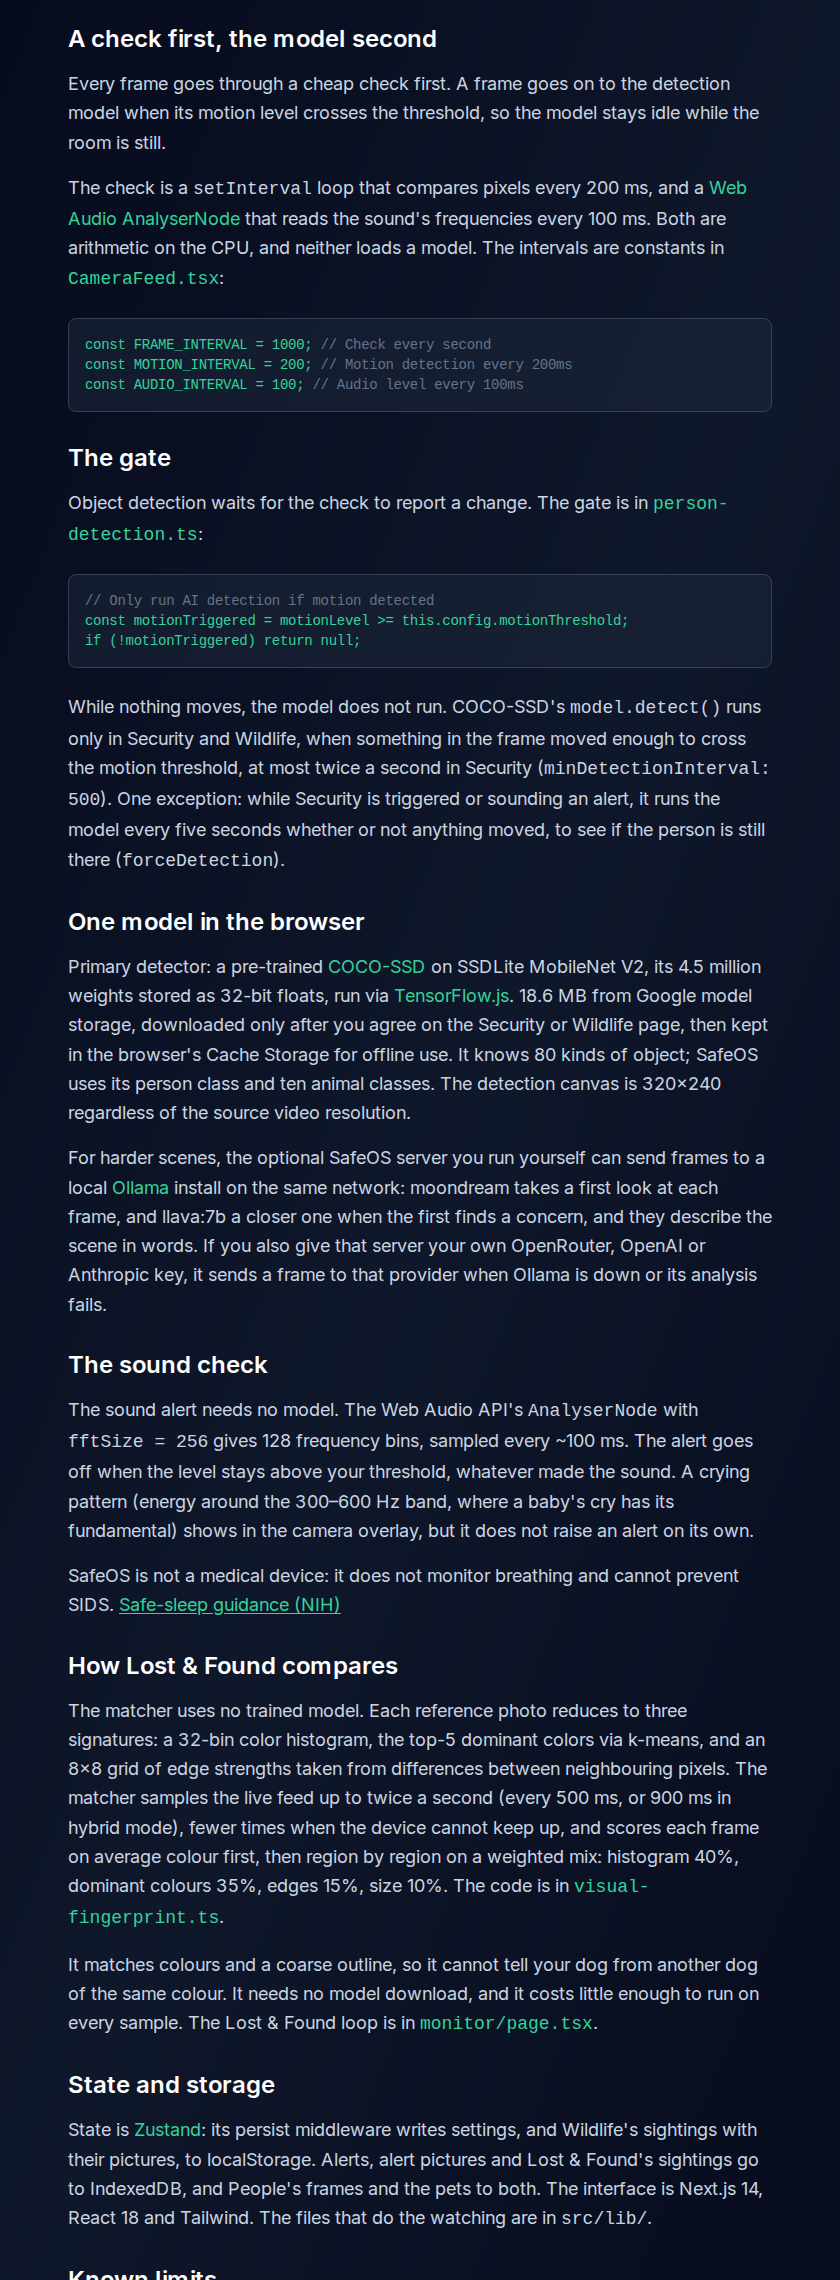
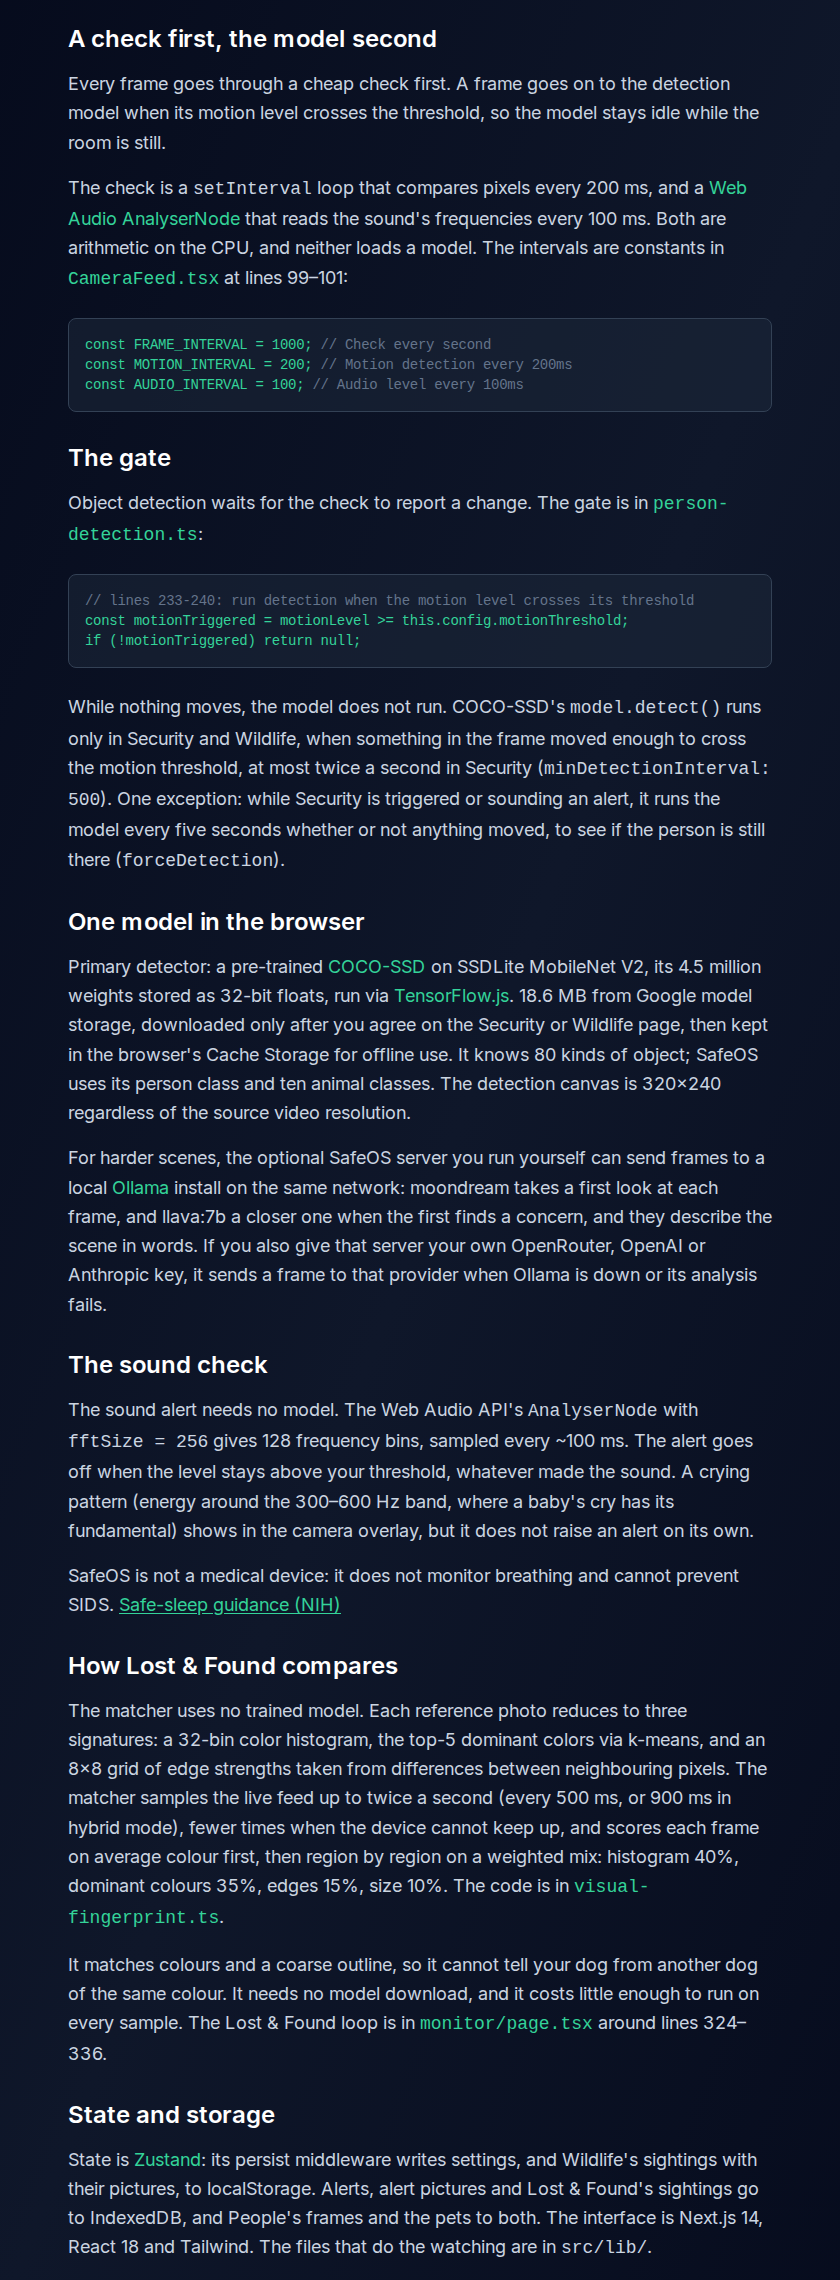
docs: refresh the before and after pictures from the Pictures run on 0d2431e
The connections table's spoken alert row and the blog's code lines change;
the other pictures are the same pixels in the new captures.

Changed region(s): [[0.0619, 0.9031, 0.8976, 1.0], [0.3405, 0.0934, 0.3714, 0.1246]]

diff --git a/docs/pictures/pr-69/README.md b/docs/pictures/pr-69/README.md
@@ -1,7 +1,7 @@
 # Privacy, storage and model words, and the connections table
 
-Paired captures from CI. [Pictures run](https://github.com/framerslab/safeos/actions/runs/45925525980)
-The before build uses the base, `d70ec8f0e4bcbf315c90d66243aaa9ff50fb8141`. The after build is for the pull request head `521be9028c61e6905588609c87efa1bce7d48be8`.
+Paired captures from CI, [Pictures run 46043152474](https://github.com/framerslab/safeos/actions/runs/46043152474).
+The before build uses the base, `b53259885dbdb3ccbe955810227400a8071877c0`. The after build is for the pull request head `0d2431edd0dafb096974beba71e2976b4bd10b06`.
 Each picture is cut from the run's full-page capture of the page it names, at the width and look it names.
 The open storage card on the home page is captured only for the pull request head.
 
@@ -9,18 +9,18 @@ The open storage card on the home page is captured only for the pull request hea
 | --- | --- | --- |
 | Privacy page, where the saved pictures are kept, 1280 px, dark look | [Before](before/privacy-storage-1280-dark.png) | [After](after/privacy-storage-1280-dark.png) |
 | Privacy page, where the saved pictures are kept, 1280 px, light look | [Before](before/privacy-storage-1280-light.png) | [After](after/privacy-storage-1280-light.png) |
-| Privacy page, what leaves this device (People, Wildlife and Lost & Found speak), 1280 px, dark look | [Before](before/privacy-connections-1280-dark.png) | [After](after/privacy-connections-1280-dark.png) |
-| Privacy page, what leaves this device (People, Wildlife and Lost & Found speak), 1280 px, light look | [Before](before/privacy-connections-1280-light.png) | [After](after/privacy-connections-1280-light.png) |
-| Privacy page, what leaves this device (People, Wildlife and Lost & Found speak), 390 px, light look | [Before](before/privacy-connections-390-light.png) | [After](after/privacy-connections-390-light.png) |
-| Privacy page, what leaves this device (People, Wildlife and Lost & Found speak), 390 px, dark look | [Before](before/privacy-connections-390-dark.png) | [After](after/privacy-connections-390-dark.png) |
+| Privacy page, what leaves this device (a spoken alert in an online voice you choose), 1280 px, dark look | [Before](before/privacy-connections-1280-dark.png) | [After](after/privacy-connections-1280-dark.png) |
+| Privacy page, what leaves this device (a spoken alert in an online voice you choose), 1280 px, light look | [Before](before/privacy-connections-1280-light.png) | [After](after/privacy-connections-1280-light.png) |
+| Privacy page, what leaves this device (a spoken alert in an online voice you choose), 390 px, light look | [Before](before/privacy-connections-390-light.png) | [After](after/privacy-connections-390-light.png) |
+| Privacy page, what leaves this device (a spoken alert in an online voice you choose), 390 px, dark look | [Before](before/privacy-connections-390-dark.png) | [After](after/privacy-connections-390-dark.png) |
 | Home, the detection diagram and cards (graphics chip or processor; Lost and Found up to twice a second), 1280 px, dark look | [Before](before/home-detection-1280-dark.png) | [After](after/home-detection-1280-dark.png) |
 | Home, the detection diagram and cards (graphics chip or processor; Lost and Found up to twice a second), 1280 px, light look | [Before](before/home-detection-1280-light.png) | [After](after/home-detection-1280-light.png) |
 | Home, the open storage card, 1440 px, dark look | Not captured for the base | [After](after/home-storage-open-1440-dark.png) |
 | Home, the open storage card, 1440 px, light look | Not captured for the base | [After](after/home-storage-open-1440-light.png) |
 | About, How It Works, step 4, 1280 px, dark look | [Before](before/about-how-it-works-1280-dark.png) | [After](after/about-how-it-works-1280-dark.png) |
 | About, How It Works, step 4, 1280 px, light look | [Before](before/about-how-it-works-1280-light.png) | [After](after/about-how-it-works-1280-light.png) |
-| Blog, How SafeOS Guardian works, from the check to the storage, 1280 px, dark look | [Before](before/blog-1280-dark.png) | [After](after/blog-1280-dark.png) |
-| Blog, How SafeOS Guardian works, from the check to the storage, 1280 px, light look | [Before](before/blog-1280-light.png) | [After](after/blog-1280-light.png) |
+| Blog, How SafeOS Guardian works, from the check to the storage, with the lines its code links open, 1280 px, dark look | [Before](before/blog-1280-dark.png) | [After](after/blog-1280-dark.png) |
+| Blog, How SafeOS Guardian works, from the check to the storage, with the lines its code links open, 1280 px, light look | [Before](before/blog-1280-light.png) | [After](after/blog-1280-light.png) |
 
 ## SHA-256
 
@@ -29,13 +29,13 @@ The open storage card on the home page is captured only for the pull request hea
 - `8074f858d6fd898a9421fe46a58f019a92332f8d85cb6fc9062ce528e830686d  before/privacy-storage-1280-light.png`
 - `efd40b4a67ead08d461b69814606c31790aac12af0483d6c7a3ba0f7c2990e23  after/privacy-storage-1280-light.png`
 - `45cd79632e32acfe16a0217da1136074a0217647ba3a811f98b14f7b4c7a8d3c  before/privacy-connections-1280-dark.png`
-- `5ab8ccdc66aab469a97852aa36b436b110b76c9a73cdc6636c18c32b260d3657  after/privacy-connections-1280-dark.png`
+- `e463baa3ace44adbc1d60ab66dbab685270ed315260e1874573a7d4d61950efe  after/privacy-connections-1280-dark.png`
 - `03249a9d75c9e08500cb5d712a587b6beef4a6a07c65f445e3bf48cf6649cc4e  before/privacy-connections-1280-light.png`
-- `9d7ab8c782471710ef07519ee8d23210302c07a387a92d5795df24b70baad544  after/privacy-connections-1280-light.png`
+- `411fb90738a481ef1fa17329fa74a5b4a592a82b6d6f1112fa3cb8a4927b7668  after/privacy-connections-1280-light.png`
 - `80ff24fe614e965f38434d839a91971b494196d73815b161259f966287106186  before/privacy-connections-390-light.png`
-- `7bd4f5a00dc9ce4b73ca60803cdec681186fc1722fd3644a82e03363564e87a9  after/privacy-connections-390-light.png`
+- `499a25d7fde46b2052f57c34147d47d791133d4611ea35e37dfc4476ddf0dce4  after/privacy-connections-390-light.png`
 - `c76e138b1b082df830b6bf932e545354f7e8139d8ce8606bca721add10e8c54e  before/privacy-connections-390-dark.png`
-- `393131432a2a784880067d801902136210b0f7e7a3b4c63ac5917c9e0f75ab27  after/privacy-connections-390-dark.png`
+- `c296fad3676bd881a1e613cd92ffef5ea9ef97f1fa0dd8564396ffc9bccc9379  after/privacy-connections-390-dark.png`
 - `da68125b8154092afb2ea2512ffb34e5860e31b4c9568bbc196a51e402da74bc  before/home-detection-1280-dark.png`
 - `03a960fc29bd8f6ed749613fb81f20a1cca481fca9575d787c0edcb5d45390d0  after/home-detection-1280-dark.png`
 - `c131a49637484f07c8cf1fa3bdeddaca2819415a78f73ea8e9867a24980d6576  before/home-detection-1280-light.png`
@@ -46,7 +46,7 @@ The open storage card on the home page is captured only for the pull request hea
 - `801b7ddcaa19ba84ef0f2ff1d34eec9673251140328400c38fcd9626f7f3120d  after/about-how-it-works-1280-dark.png`
 - `112b8d0f579ccb1a786fac78dfa14e50b8e91f895f4a905fc0cb1ee03a236b28  before/about-how-it-works-1280-light.png`
 - `f9c31be6c8cd037aaa7f2f0ff7a953ae04203f999d322b4320b4104f2f11bc89  after/about-how-it-works-1280-light.png`
-- `ddcf2214ec6609d9151ac94a90dd6b4848da434f4520f7c00c212ef18551c0d1  before/blog-1280-dark.png`
-- `d6de4cc24729932f1a8797d64ed21fa5aeae90a8195fd5caef2b09352517078e  after/blog-1280-dark.png`
-- `4762e782bd1b9e36078a8e0f77abf606de151b013ce1fc67976e992781e16195  before/blog-1280-light.png`
-- `b8c3e67ba695969d7a4b2021afd9907fe34da2b084f59c20821f5437e5f28c97  after/blog-1280-light.png`
+- `9db3e719468647c74564ca478256a1fab80c8bc49dc07f6156e18418867440c7  before/blog-1280-dark.png`
+- `8a6143704afee4af875cbff5568960b7f3a5b00c2a26df196c2d842088137492  after/blog-1280-dark.png`
+- `9739e83573a7c2efa22cbe419d6991205ef3f85a43b60baf40f440518393d10d  before/blog-1280-light.png`
+- `20a2918bf477057dd48d1bff3aadb8932f0e1eeba8344235364253aa14a73405  after/blog-1280-light.png`
